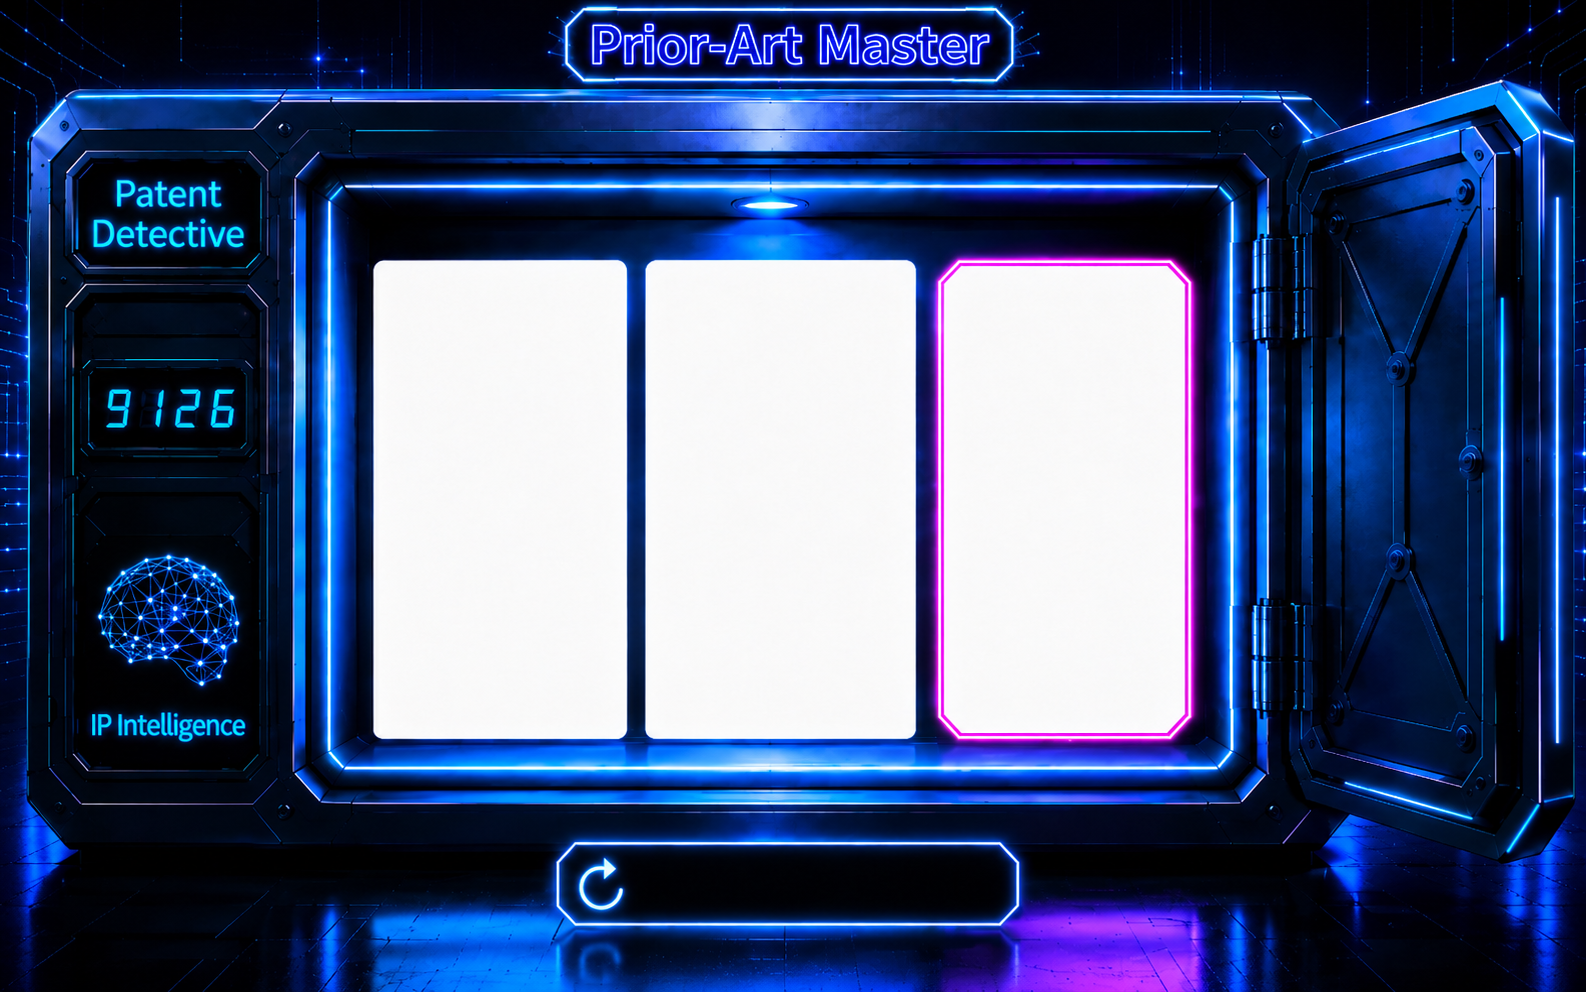
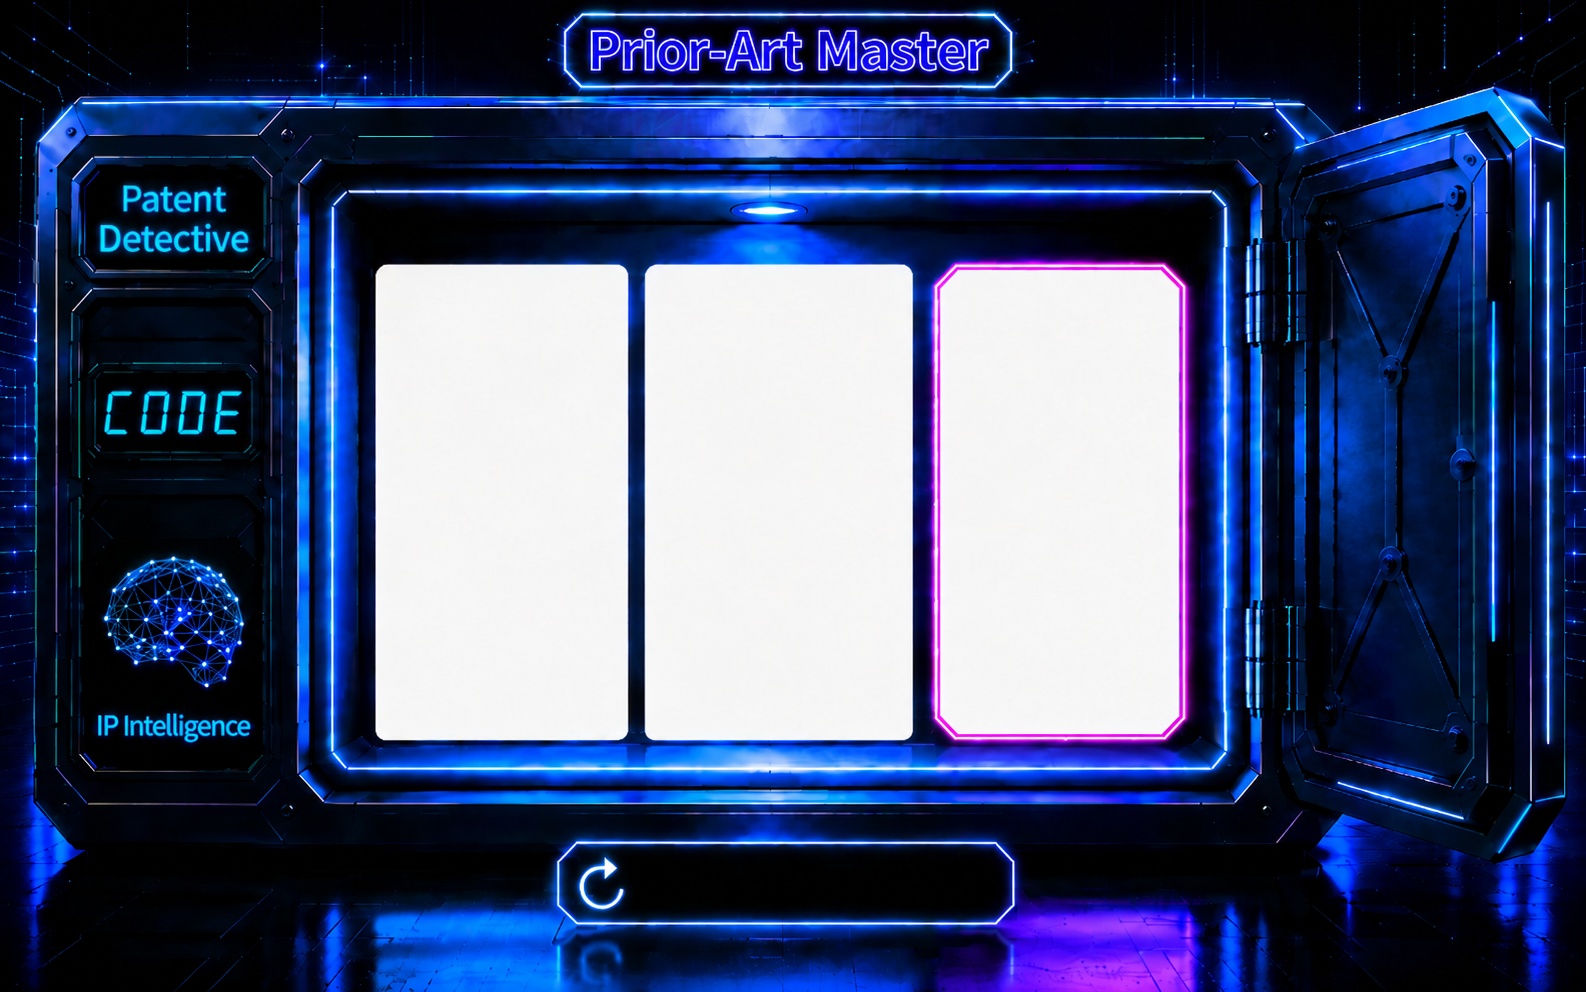
win screen adjustments

diff --git a/style.css b/style.css
@@ -564,7 +564,7 @@ html, body {
   color: #001a33;
   font-family: 'Orbitron', 'Courier New', monospace;
   font-weight: 400;
-  font-size: clamp(7px, 0.75vw, 10px);
+  font-size: clamp(6px, 0.75vw, 9px);
   line-height: 1.45;
   white-space: pre-line;
   overflow: hidden;
@@ -809,7 +809,7 @@ html, body {
 }
 
 #modal-item.win-text-modal #modal-item-body {
-  font-size: clamp(13px, 4.2vh, 23px);
+  font-size: clamp(11px, 3.5vh, 19px); /* ← adjust font size for win result text popup here */
   line-height: 1.6;
   color: #001a33;
   white-space: pre-line;
